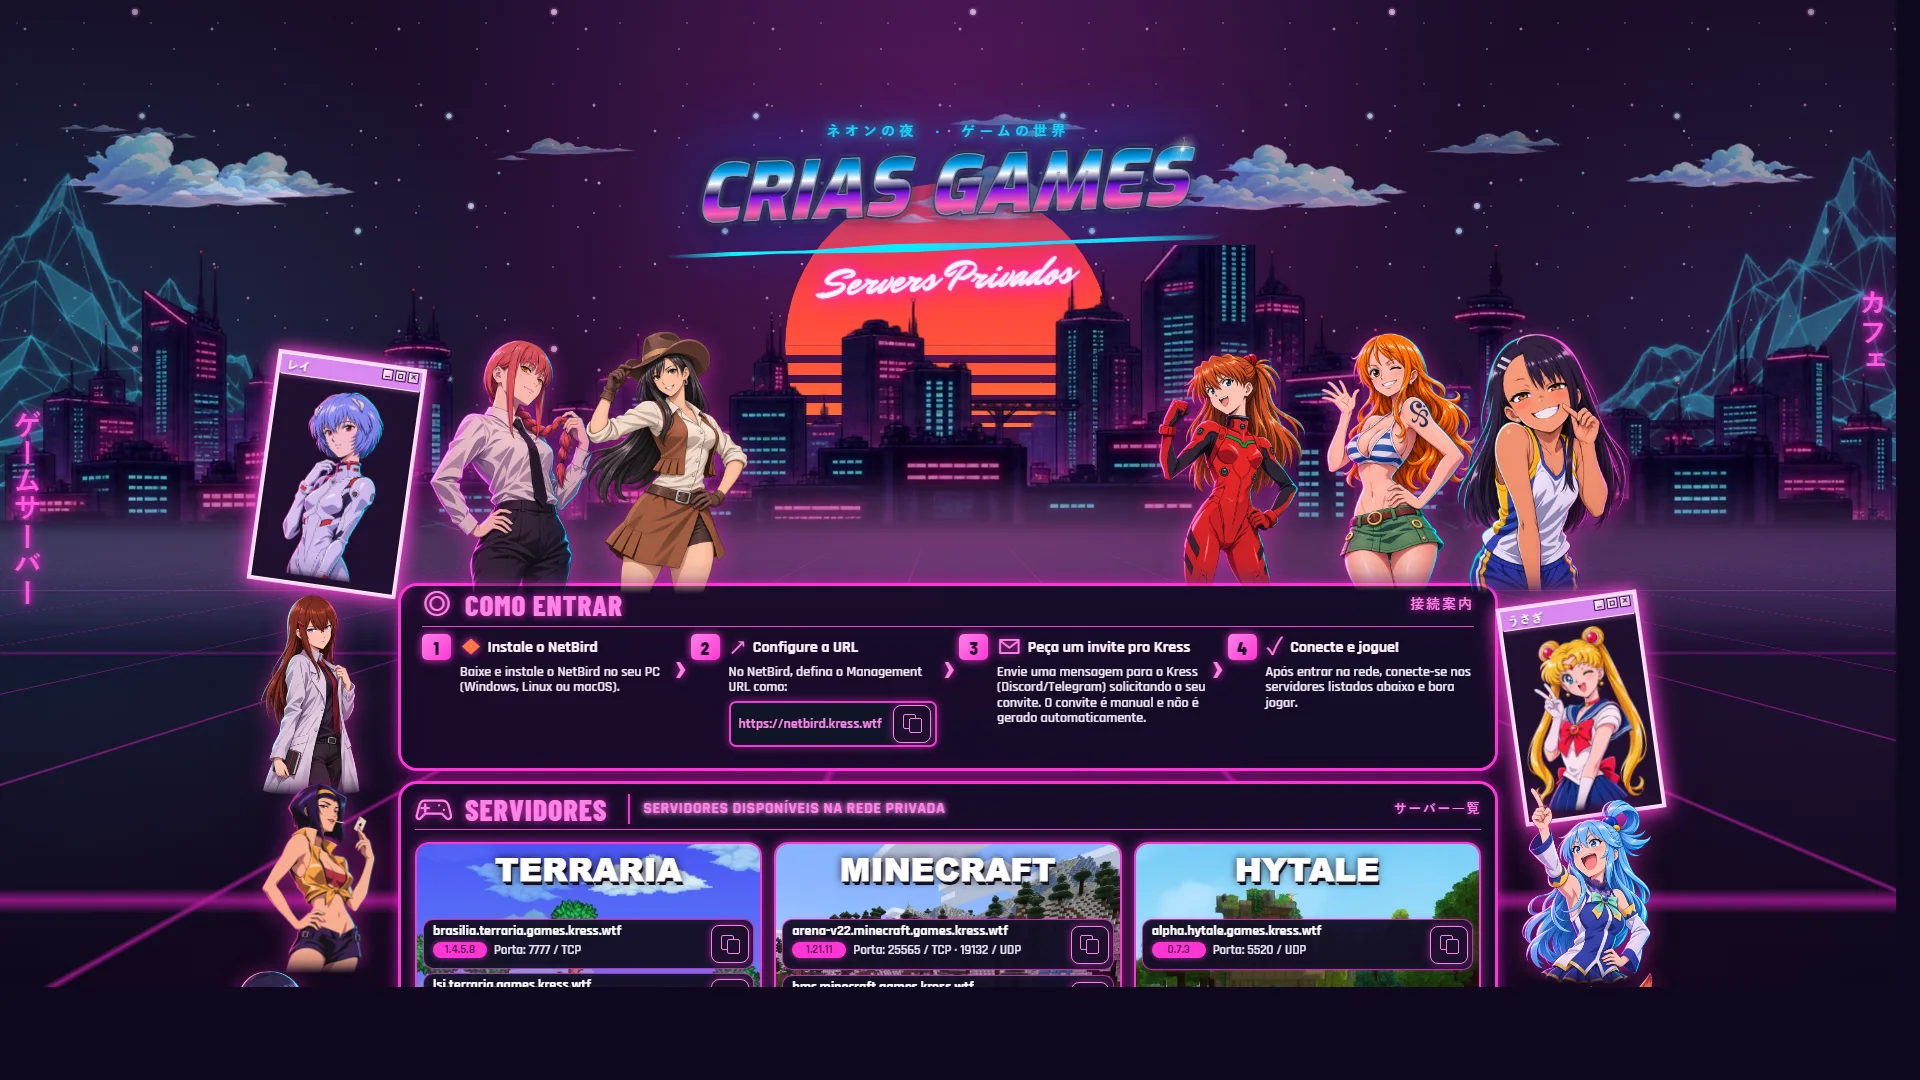
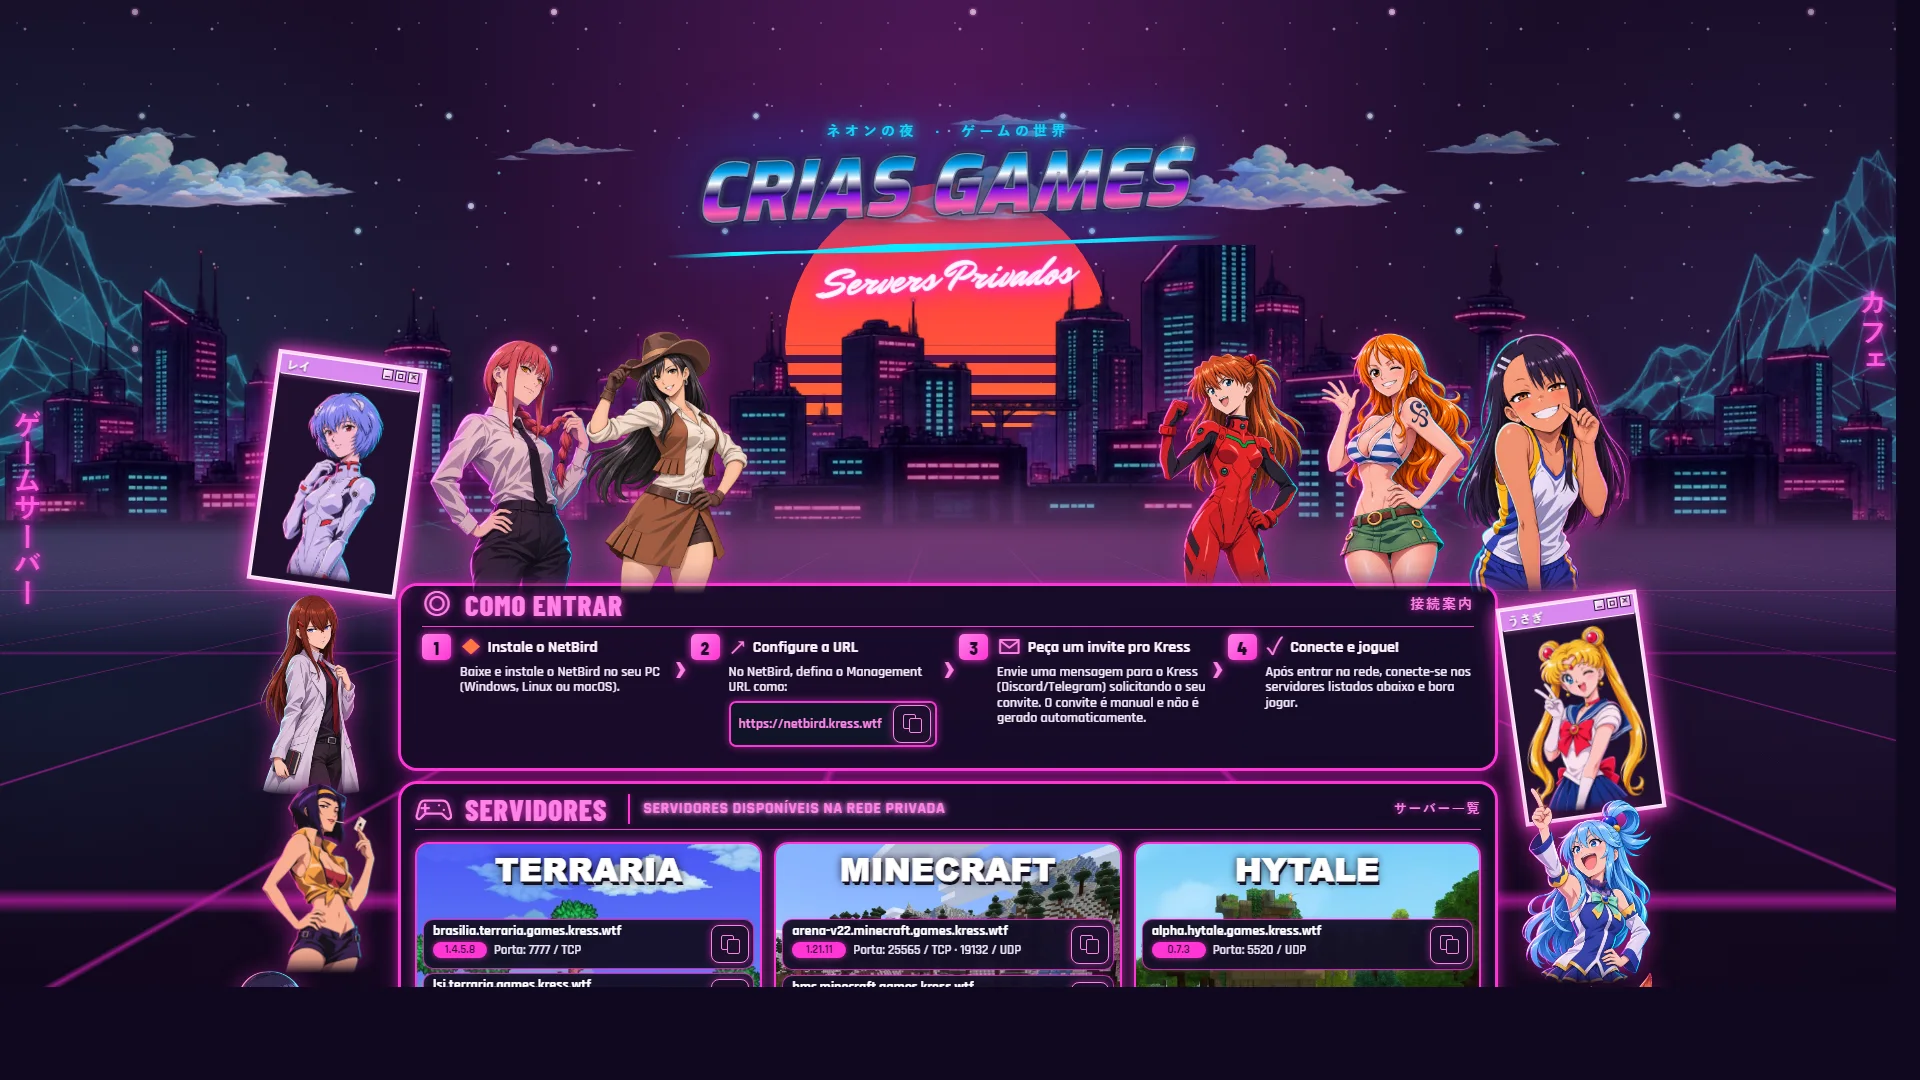
Hide more of the mountain edges

Changed region(s): [[0.8438, 0.1528, 1.0, 0.3972], [0.0, 0.1528, 0.0938, 0.3972]]

diff --git a/src/assets/site.css b/src/assets/site.css
@@ -95,8 +95,8 @@ button { font: inherit; }
 .scene__mountains::before,.scene__mountains::after { content:""; position:absolute; inset:0; pointer-events:none; -webkit-mask-image:url('./art/mountains-valley.png'); mask-image:url('./art/mountains-valley.png'); -webkit-mask-repeat:no-repeat; mask-repeat:no-repeat; -webkit-mask-size:200% 100%; mask-size:200% 100%; -webkit-mask-position:var(--mountain-mask-position) 100%; mask-position:var(--mountain-mask-position) 100%; -webkit-mask-mode:alpha; mask-mode:alpha; }
 .scene__mountains::before { background:linear-gradient(180deg,#267faaa8 0%,#35b9d4e8 54%,#3de2ff 100%); }
 .scene__mountains::after { background:linear-gradient(180deg,#83b6d633 0%,#5da7cb1f 46%,transparent 100%); clip-path:inset(0 0 42%); filter:blur(2px); }
-.scene__mountains--left { --mountain-mask-position:0%; left:calc(0px - clamp(20px, 1.25vw, 24px)); rotate:5deg; transform-origin:left bottom; }
-.scene__mountains--right { --mountain-mask-position:100%; right:calc(0px - clamp(20px, 1.25vw, 24px)); rotate:-5deg; transform-origin:right bottom; }
+.scene__mountains--left { --mountain-mask-position:0%; left:calc(0px - clamp(28px, 1.75vw, 34px)); rotate:5deg; transform-origin:left bottom; }
+.scene__mountains--right { --mountain-mask-position:100%; right:calc(0px - clamp(28px, 1.75vw, 34px)); rotate:-5deg; transform-origin:right bottom; }
 .scene__grid { position: absolute; z-index:2; left: -30%; right: -30%; top:var(--scene-horizon); bottom: -14%; transform-origin: 50% 0; transform: perspective(280px) rotateX(80deg); background-image: linear-gradient(#ff22d8a8 1px, transparent 1px), linear-gradient(90deg, #ff22d8a8 1px, transparent 1px); background-size: 100% 50px, 68px 100%; -webkit-mask-image:linear-gradient(to bottom,transparent 0%,#0002 5%,#000e 24%,#000 72%,transparent 100%); mask-image:linear-gradient(to bottom,transparent 0%,#0002 5%,#000e 24%,#000 72%,transparent 100%); box-shadow: inset 0 22px 40px #ff28cd36; animation: grid-drift 14s linear infinite,grid-neon-pulse 3.5s ease-in-out infinite alternate,neon-flicker 11.7s steps(1,end) infinite; }
 .scene__ground-fog { position:absolute; z-index:6; top:calc(var(--scene-horizon) - clamp(48px,5vh,56px)); left:-8%; right:-8%; height:clamp(172px,21vh,228px); pointer-events:none; opacity:.96; background:radial-gradient(ellipse at 50% 8%,rgba(247,153,237,.2),transparent 65%),linear-gradient(to bottom,transparent 0%,rgba(232,151,225,.12) 16%,rgba(186,129,205,.27) 37%,rgba(95,69,133,.31) 60%,rgba(22,13,43,.25) 78%,transparent 100%); filter:blur(11px); }
 .scene__sign { position:absolute; z-index:7; top:calc(clamp(210px,21vh,228px) + 200px); left:5px; color:#ff5cde; font-size:28px; line-height:1.45; font-weight:800; writing-mode:vertical-rl; text-shadow:0 0 6px #ff2ad9,0 0 15px #ff2ad9; animation:sign-flicker 6.2s ease-in-out infinite,neon-text-pulse 2.7s ease-in-out infinite alternate; }

diff --git a/docs/assets.md b/docs/assets.md
@@ -33,7 +33,7 @@ The active footer additions are `shantae-6.webp`, `marie-rose-6.webp`, `oguri-ca
 | Skyline | skyline.webp | Generated transparent panorama of neon cyberpunk towers. CSS opacity is 100%, blend mode is normal, and a short lower-edge mask plus low ground fog blends it into the grid. Mountains render below the skyline layer. |
 | Sky and stars | `.scene`, `.scene__stars` in `site.css` | CSS gradients and star patterns; star layer stops and fades at the horizon above the ground grid. |
 | Striped sun | `.scene__sun` in `site.css` | CSS bands separated by transparent cutouts in the lower half with a moving mask, a 25% bottom clip, no neon glow/pulse, and only a brief non-glowing glitch. Desktop lift is about 116px. |
-| Wireframe mountains | `mountains-valley.png` | ImageGen (`exec-b7c597af-6836-420c-b072-76f8d0d1b665`), one transparent panoramic retrowave valley with white irregular triangulated terrain and translucent filled facets. CSS uses its left and right alpha-mask halves at the page corners, so both sides share the exact source, tint and brightness; the tint darkens slightly toward the top with a very light upper haze/blur. The shared top uses `clamp(128px, 13vh, 148px)`; the left half rotates `5deg` and the right `-5deg`, anchored at their lower outer corners and shifted outward 16–20px to fill the side corners without a broad crop. Far clouds sit behind the mountains and faster sprites in front, all behind the city. Inspired by the [Synthwave Mountains CodePen](https://codepen.io/rickpr/pen/xxxyVxZ). |
+| Wireframe mountains | `mountains-valley.png` | ImageGen (`exec-b7c597af-6836-420c-b072-76f8d0d1b665`), one transparent panoramic retrowave valley with white irregular triangulated terrain and translucent filled facets. CSS uses its left and right alpha-mask halves at the page corners, so both sides share the exact source, tint and brightness; the tint darkens slightly toward the top with a very light upper haze/blur. The shared top uses `clamp(128px, 13vh, 148px)`; the left half rotates `5deg` and the right `-5deg`, anchored at their lower outer corners and shifted outward 28–34px to hide more of the outer mountain edges. Far clouds sit behind the mountains and faster sprites in front, all behind the city. Inspired by the [Synthwave Mountains CodePen](https://codepen.io/rickpr/pen/xxxyVxZ). |
 | Grid and ground fog | `.scene__grid`, `.scene__ground-fog` in `site.css` | CSS perspective transform, line gradients and a broad low fog fade that softens the skyline/ground transition; stars fade out before the grid. |
 | Parallax clouds | `clouds-spritesheet.png`; `.scene__clouds` and `.scene__cloud-sprite` in `site.css` | ImageGen `exec-bb058d09`; anime-cumulus artwork was cropped and arranged with ImageMagick into a 4×4 transparent sprite sheet (1024 × 512). A 14px horizontal alpha feather removes hard crop edges at each cell. The cloud container reaches the horizon, with the skyline above sprites where they cross buildings. Fifteen active sprites move left at staggered speeds across far/middle/near depth layers; the broken `near-3` instance was removed. The slow far sprites sit behind the mountains, faster sprites pass in front. Reduced-motion and software-rendered modes keep the clouds static. |
 | Japanese signs | `.scene__sign` and `.scene__sign--right` in `site.css` and HTML text | Standalone vertical neon text (`ゲームサーバー` and `カフェ`) in front of the city; the striped right-side facade panel is omitted. |

diff --git a/docs/review/visual-review.md b/docs/review/visual-review.md
@@ -205,6 +205,6 @@ Captured states: [idle page at 1448](screenshots/layers-idle-1448-2026-11-10.web
 
 The generated anime-cumulus artwork was cropped with ImageMagick into a 1024 × 512, 4 × 4 transparent sprite sheet. A 14px horizontal alpha feather on each cell removes the hard crop line where the source art touched tile edges. The cloud container now reaches the horizon so sprites do not get chopped at the earlier city-height boundary; the higher-z skyline still covers clouds where they cross buildings. The broken `near-3` sprite instance was removed, leaving 15 active clouds drifting left with staggered delays through far, middle and near parallax planes. The far sprites sit behind the mountains; faster sprites pass in front. The loop no longer pauses visibly before fading offscreen. On the software-rendered fallback, the clouds remain static.
 
-Both mountain halves use `top: clamp(128px, 13vh, 148px)`, with the left rotated `5deg` and the right `-5deg`; their lower outer corners anchor the rotation, with a controlled 20–24px outward offset filling the side corners. The active Tifa portrait is a transparent hat-to-above-knee cowgirl cutout. Its 2× enlarged image has generous transparent margins; the updated display is 10% larger and 24px higher than the previous layout while retaining its transparent clearance.
+Both mountain halves use `top: clamp(128px, 13vh, 148px)`, with the left rotated `5deg` and the right `-5deg`; their lower outer corners anchor the rotation, with a controlled 28–34px outward offset hiding more of the outer mountain edges. The active Tifa portrait is a transparent hat-to-above-knee cowgirl cutout. Its 2× enlarged image has generous transparent margins; the updated display is 10% larger and 24px higher than the previous layout while retaining its transparent clearance.
 
 The [1448px upper-page capture](screenshots/tifa-clouds-1448-2026-11-10.webp) and [1920px full-page capture](screenshots/tifa-clouds-1920-2026-11-10.webp) show the above-knee Tifa crop, transparent breathing room, all active cloud layers and rotated mountain placement. The static browser renders include 15 cloud sprites, with the skyline over the clouds where their paths cross buildings. The site builds with all eight server records.

diff --git a/openspec/changes/build-mockup-faithful-site/tasks.md b/openspec/changes/build-mockup-faithful-site/tasks.md
@@ -128,4 +128,5 @@ Implement in dependency order. Read both persistent specs, both change specs, `d
 - [x] 8.51 Feather the cloud sprite-sheet cell edges and raise near-layer clouds enough to keep the active silhouettes inside the sky container. Inspect all 15 active sprites for horizontal or vertical clipping at 1448px and 1920px.
 - [x] 8.52 Anchor the mountain rotations at the lower outer corners and shift both halves outward by `clamp(20px, 1.25vw, 24px)` to fill the side corners without a broad crop. Keep the approved `clamp(128px, 13vh, 148px)` top and inspect the valley at desktop widths.
 - [x] 8.54 Increase Tifa's displayed size about 10%, then raise her 24px from that scaled placement; preserve the centered artwork bounds and transparent margin. Inspect against Asuka at 1448px and 1920px.
+- [x] 8.55 Shift both mountain halves farther outward by about 8–10px to hide more of their outer edges. Preserve the shared panoramic mask, rotation and desktop valley layout.
 - [x] 8.53 Extend the cloud container down to the horizon so sprites do not clip at the former city-height boundary; keep the skyline above every cloud layer and verify the animated and static desktop views.
